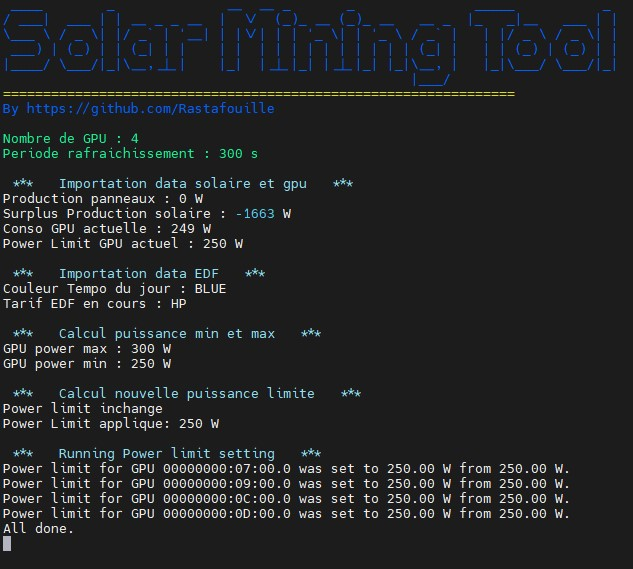
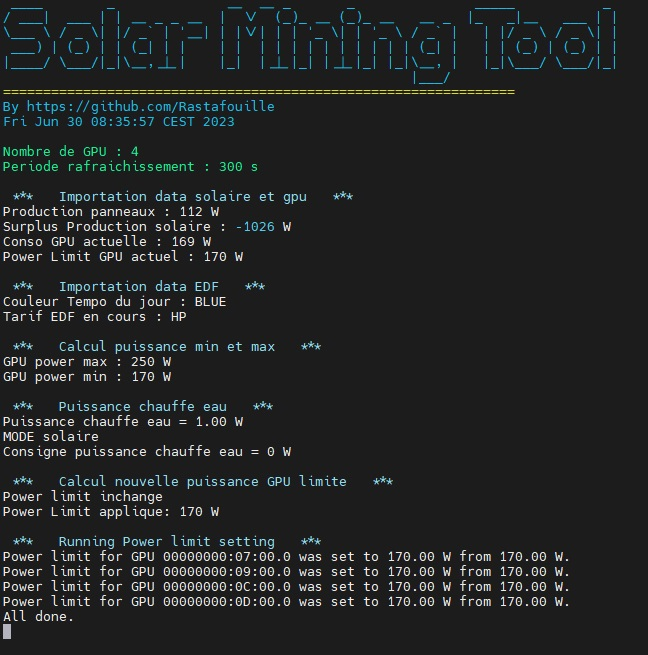
maj CE

diff --git a/README.md b/README.md
@@ -1,12 +1,15 @@
 # SolarMiningTool
 Pilotage de la puissance de minage en fonction de la production solaire et couleur Tempo EDF du jour
+Version chauffe eau (CE), si encore surplus de puissance, on l'envoie sur le CE via grace au boitier : <https://github.com/Rastafouille/PilotageChauffeEau> 
 
 <img src="Capture.jpg" width="500"/>
 
 L'idée est de réguler la puissanse électrique pour gérer le surplus solaire en restant dans des bornes min et max de puissance.
-Par exemple pour ma part, en jour bleue et blanc je mine à 250W par carte et autorise à monter à 300W si surplus de production solaire. 
-Par contre, en jour rouge, plutôt de 100W à 300W, voire même éteindre le worker (implémentation en cours) ou carrément éteindre le rig via une prise connectée 
+Par exemple pour ma part, en jour bleue et blanc je mine à 170W par carte et autorise à monter à 250W si surplus de production solaire. 
+Par contre, en jour rouge, plutôt de 100W à 250W, voire même éteindre le worker (implémentation en cours) ou carrément éteindre le rig via une prise connectée 
 (si je me chauffe je regarde...) 
+
+Version chauffe eau (CE), idem pour la puissance du rig, une fois qu'il est au max on envoie le reste au CE, et inversement qd la puissance solaire diminue, on diminue celle du CE puis du Rig.
 
 
 ## Préalables
@@ -52,17 +55,14 @@ Sachant que le soleil en HC ...
 
 Pour que le script se lance dans un screen au démarrage
 
+Sur ubuntu :
+
 	$ sudo nano /etc/rc.local
-	
-Ajouter
-
-	$ screen -S SolarMiningTool /home/user/SolarMiningTool/SolarMiningTool.sh
+	Ajouter
+	$ screen -S SolarMiningTool /home/user/SolarMiningTool/SolarMiningTool.sh && screen -d SolarMiningTool
  
-NE MARCHE PAS ....
+Pour hive os
 
- Tentative en cours avec systemd
- 
-	$ /etc/systemd/system/SolarMiningTool.service
-	$ systemctl daemon-reload
-	$ systemctl start SolarMiningTool.service
-	$ sudo journalctl -u SolarMiningTool.service
+	$ sudo nano /home/user/xinit.user.sh
+	Ajouter
+	$ screen -S SolarMiningTool /home/user/SolarMiningTool/SolarMiningTool.sh && screen -d SolarMiningTool
